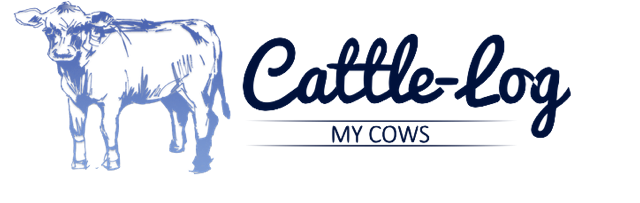
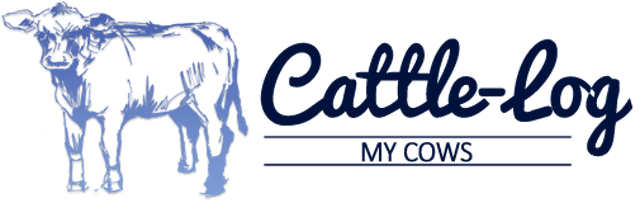
added new expense data and cleaned up look overall

diff --git a/public/stylesheets/main.css b/public/stylesheets/main.css
@@ -11,12 +11,17 @@
     width: 100%;
   }
  
+  img {
+    max-width:300px;
+  }
 
+
+  
   .content {
     max-width: 500px;
     margin: auto;
   }
-  
+
   /* --- Welcome Page Styles --- */
   body {
     background-color: rgb(2, 21, 53);

diff --git a/app/controllers/expenses_controller.rb b/app/controllers/expenses_controller.rb
@@ -2,7 +2,7 @@ class ExpensesController < ApplicationController
 
     get "/expenses/all" do
         if logged_in? 
-            @expense = Expense.all
+            @expense = current_user.expenses
             erb :'/expenses/all'
         else
             redirect to '/login'
@@ -23,8 +23,9 @@ class ExpensesController < ApplicationController
           redirect to '/expenses/add_new'
         else
           @expense = Expense.create(params[:expense])
+          @expense.user_id = current_user.id
           if @expense.save
-            redirect("/expenses/all")
+            redirect to '/expenses/all'
         end 
          redirect to '/login'
       end  
@@ -34,7 +35,6 @@ class ExpensesController < ApplicationController
   get "/expenses/:id" do
     if logged_in?
       @expense = Expense.find_by_id(params[:id])
-      @expense.save
       erb :'/expenses/show'
     else 
       redirect to '/login'
@@ -44,18 +44,20 @@ class ExpensesController < ApplicationController
   get "/expenses/:id/edit" do
     if logged_in? 
       @expense = Expense.find_by_id(params[:id])
-      @expense.save
+      if @expense && @expense.user == current_user
         erb :"/expenses/edit"
-    else
+      else
+        redirect to 'expenses/all'
+      end 
+    else 
       redirect to '/login'
-    end 
+    end
   end
 
     patch '/expenses/:id/edit' do
       if logged_in?  
         @expense = Expense.find_by_id(params[:id])
-        @expense.update(id: params[:id])
-        @expense.save(id: params[:id])
+        @expense.update(params[:expense])
           redirect to "/expenses/#{@expense.id}"
       else
         redirect to '/login'

diff --git a/app/models/user.rb b/app/models/user.rb
@@ -1,3 +1,6 @@
+require 'nokogiri'
+require 'open-uri'
+
 class User < ActiveRecord::Base
     has_secure_password
     
@@ -10,4 +13,22 @@ class User < ActiveRecord::Base
       puts "Current Time : " + time.inspect
     end
 
-end
+    def get_temp
+    page = open("https://www.wunderground.com/weather/us/sc/islandton/29929")
+    doc = Nokogiri::HTML(page)
+      temperature_scraped = doc.at_css("div.current-temp lib-display-unit span span.wu-value.wu-value-to").text.strip
+      temperature_scraped
+    end
+
+    def weather_text
+    page = open("https://www.wunderground.com/weather/us/sc/islandton/29929")
+    doc = Nokogiri::HTML(page)
+      text_scraped = doc.at_css("div div.condition-icon.small-6.medium-12.columns p").text.strip
+    end
+
+    def get_market_prices
+      page = open("https://beefmarketcentral.com/")
+      doc = Nokogiri::HTML(page)
+        price_scraped = doc.at_css("#ctl00_MainContent_fcHostContent_ctl00_ctl00_ctl00__sideContentDiv_2 > div > ul:nth-child(3) > a > li.fcDataViewLastTextLeft").text.strip
+    end
+  end

diff --git a/db/migrate/20191013051638_create_expenses.rb b/db/migrate/20191013051638_create_expenses.rb
@@ -2,6 +2,30 @@ class CreateExpenses < ActiveRecord::Migration
   def change
     create_table :expenses do |t|
       t.string :notes 
+      t.integer :car_truck
+      t.integer :chemicals
+      t.integer :conservation
+      t.integer :depreciation
+      t.integer :employees
+      t.integer :feed 
+      t.integer :freight_trucking
+      t.integer :gas 
+      t.integer :insurance 
+      t.integer :interest 
+      t.integer :mortgage 
+      t.integer :rent 
+      t.integer :repairs 
+      t.integer :seeds_plants
+      t.integer :storage
+      t.integer :supplies 
+      t.integer :taxes 
+      t.integer :vet
+      t.integer :tools
+      t.integer :fencing_land
+      t.integer :calf 
+      t.integer :dues 
+      t.integer :misc_labor 
+      t.integer :professional
       t.integer :user_id
     end
   end

diff --git a/db/schema.rb b/db/schema.rb
@@ -29,6 +29,30 @@ ActiveRecord::Schema.define(version: 20191013051638) do
 
   create_table "expenses", force: :cascade do |t|
     t.string  "notes"
+    t.integer "car_truck"
+    t.integer "chemicals"
+    t.integer "conservation"
+    t.integer "depreciation"
+    t.integer "employees"
+    t.integer "feed"
+    t.integer "freight_trucking"
+    t.integer "gas"
+    t.integer "insurance"
+    t.integer "interest"
+    t.integer "mortgage"
+    t.integer "rent"
+    t.integer "repairs"
+    t.integer "seeds_plants"
+    t.integer "storage"
+    t.integer "supplies"
+    t.integer "taxes"
+    t.integer "vet"
+    t.integer "tools"
+    t.integer "fencing_land"
+    t.integer "calf"
+    t.integer "dues"
+    t.integer "misc_labor"
+    t.integer "professional"
     t.integer "user_id"
   end
 
